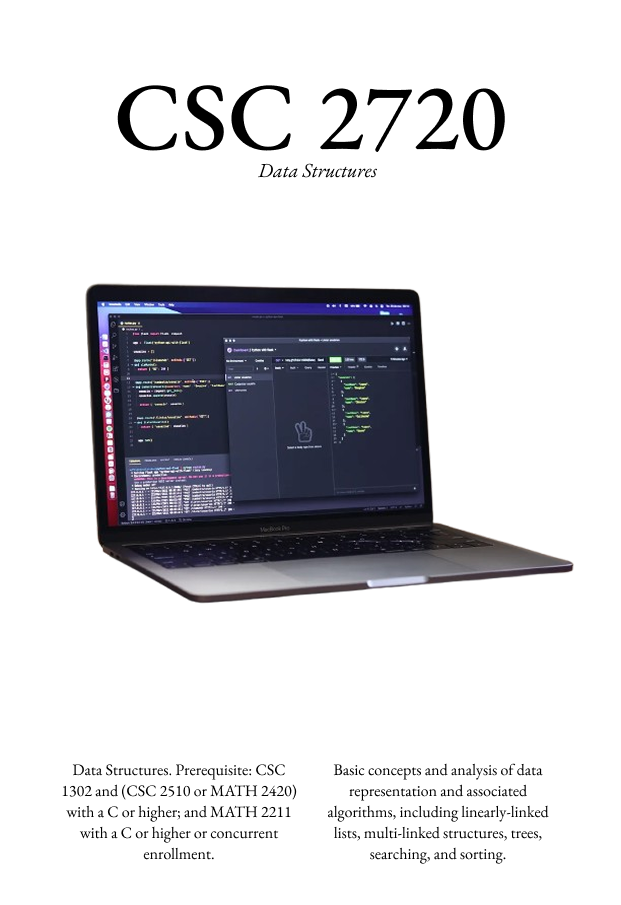
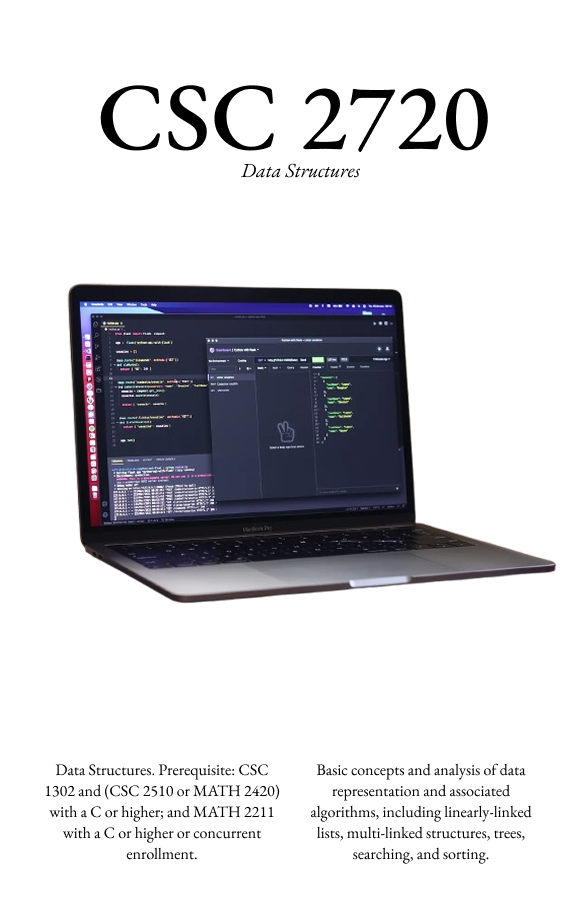
refactored entire homepage -  new section has a carousel sectiom - search and filter implementation at the bottom/old section

diff --git a/src/App.tsx b/src/App.tsx
@@ -1,8 +1,11 @@
-import { Box, Container, Heading, SimpleGrid } from '@chakra-ui/react'
-import { useEffect, useState } from 'react'
-import CourseCard from './components/Coursecard'
+import { Box, Container, Heading, SimpleGrid, Image, Input, VStack, Text, Flex, useBreakpointValue } from '@chakra-ui/react'
+import { useEffect, useState, useRef, useMemo } from 'react'
+import { motion, AnimatePresence } from 'framer-motion'
 import { courses } from './data/courses'
 import CSC1301 from './pages/CSC1301'
+import type { Course } from './types'
+
+const MotionBox = motion(Box as any)
 
 function App() {
   const [hashRoute, setHashRoute] = useState(() => window.location.hash)
@@ -20,21 +23,281 @@ function App() {
     return <CSC1301 onBack={() => (window.location.hash = '')} />
   }
 
+  return <PortfolioHome onNavigation={(route) => {
+    window.location.hash = route
+  }}/>
+}
+
+function PortfolioHome({ onNavigation }: { onNavigation: (route: string) => void }) {
+  const [currentIndex, setCurrentIndex] = useState(0)
+  
+  // Search and Filter State
+  const [searchQuery, setSearchQuery] = useState('')
+  const [isSearchFocused, setIsSearchFocused] = useState(false)
+  const [selectedLanguage, setSelectedLanguage] = useState<string | null>(null)
+  
+  const searchContainerRef = useRef<HTMLDivElement>(null)
+
+  useEffect(() => {
+    function handleClickOutside(event: MouseEvent) {
+      if (searchContainerRef.current && !searchContainerRef.current.contains(event.target as Node)) {
+        setIsSearchFocused(false)
+      }
+    }
+    document.addEventListener("mousedown", handleClickOutside)
+    return () => document.removeEventListener("mousedown", handleClickOutside)
+  }, [])
+
+  const languages = useMemo(() => {
+    const langs = new Set<string>()
+    courses.forEach(c => c.language && langs.add(c.language))
+    return Array.from(langs)
+  }, [])
+
+  const filteredCourses = useMemo(() => {
+    return courses.filter(c => {
+      const matchSearch = c.name.toLowerCase().includes(searchQuery.toLowerCase()) || c.code.toLowerCase().includes(searchQuery.toLowerCase())
+      const matchLang = selectedLanguage ? c.language === selectedLanguage : true
+      return matchSearch && matchLang
+    })
+  }, [searchQuery, selectedLanguage])
+
+  // Responsive Carousel Logic
+  // 5 items for 2xl, 3 items for others
+  const is2xl = useBreakpointValue({ base: false, '2xl': true })
+  
+  const handleNext = () => setCurrentIndex((prev) => (prev + 1) % courses.length)
+  const handlePrev = () => setCurrentIndex((prev) => (prev - 1 + courses.length) % courses.length)
+
+  const handleLinkCourse = (course: Course) => {
+    if (course.link) {
+      const isExternal = /^https?:\/\//.test(course.link)
+      if (isExternal) {
+        window.open(course.link, '_blank')
+      } else {
+        onNavigation(course.link)
+      }
+    }
+  }
+
+  // Calculate carousel positions
+  const getCarouselItems = () => {
+    const total = courses.length
+    
+    // We want to show a window of items. For 2xl it's 5 (-2, -1, 0, 1, 2)
+    // For smaller screens, it's 3 (-1, 0, 1)
+    const windowOffset = is2xl ? 2 : 1
+    
+    return courses.map((course, index) => {
+        let diff = index - currentIndex
+        // Handle wrapping for infinite carousel effect
+        if (diff > total / 2) diff -= total
+        if (diff < -total / 2) diff += total
+        
+        const isVisible = Math.abs(diff) <= windowOffset
+        
+        let zIndex = 10 - Math.abs(diff)
+        // Scaled down progressively so they fit cleanly side-by-side on screen
+        let scale = diff === 0 ? 1 : 0.9 - Math.abs(diff) * 0.1
+        let opacity = diff === 0 ? 1 : 0.6
+        
+        // Spread items apart using relative sizing instead of absolute fixed pixels
+        let translateX = `${diff * 110}%`
+
+        if (!isVisible) {
+            opacity = 0
+            // Keep off-screen items slightly further out functionally
+            translateX = diff > 0 ? `${(windowOffset + 1) * 110}%` : `-${(windowOffset + 1) * 110}%`
+        }
+
+        return {
+            course,
+            offset: diff,
+            isVisible,
+            styles: {
+                zIndex,
+                scale,
+                opacity,
+                translateX
+            }
+        }
+    })
+  }
+
   return (
-    <Box minH="100vh" minW={"90w"} bg="#fff" py={10}>
-      <Container color={'black'} maxW="container.xl">
-        <Heading size="5xl" mb={8} fontWeight={'light'} textAlign="center">
+    <Box minH="100vh" minW="100%" bg="#fafafa" py={10} overflowX="hidden">
+      <Container maxW="container.2xl">
+        <Heading size="5xl" mb={4} fontWeight="light" textAlign="center">
           GSU Computer Science Portfolio
         </Heading>
-        <Heading size="2xl" mb={6} fontWeight={'light'} textAlign="center">
+        <Heading size="2xl" mb={12} fontWeight="light" textAlign="center" color="gray.600">
           Steven Acosta-Pliego
         </Heading>
         
-        <SimpleGrid columns={{ base: 1, md: 2, lg: 3 }} gap={6} mt={10}>
-          {courses.map((course) => (
-            <CourseCard key={course.id} course={course} />
-          ))}
-        </SimpleGrid>
+        {/* CAROUSEL SECTION */}
+        <Box pos="relative" h={{ base: "300px", md: "400px", lg: "500px" }} mb={{ base: 24, lg: 32 }} mt={20} display="flex" alignItems="center" justifyContent="center">
+            {getCarouselItems().map(({ course, offset, isVisible, styles }) => (
+                <MotionBox
+                    key={course.id} 
+                    pos="absolute"
+                    initial={false}
+                    animate={{ 
+                        opacity: styles.opacity, 
+                        x: styles.translateX, 
+                        scale: styles.scale 
+                    }}
+                    transition={{ type: "spring", stiffness: 350, damping: 35 }}
+                    style={{ zIndex: styles.zIndex }}
+                    cursor={offset === 0 ? 'pointer' : (isVisible ? 'pointer' : 'default')}
+                    pointerEvents={isVisible ? "auto" : "none"}
+                    onClick={() => {
+                        if (!isVisible) return
+                        if (offset === 0) handleLinkCourse(course)
+                        else if (offset > 0) handleNext()
+                        else handlePrev()
+                    }}
+                >
+                    <Image 
+                        src={course.image} 
+                        alt={course.code} 
+                        w={{ base: "250px", md: "350px", lg: "400px" }}
+                        h="auto"
+                        shadow="2xl"
+                        borderRadius="xl"
+                        filter={offset === 0 ? "none" : "grayscale(80%)"}
+                        transition="filter 0.3s"
+                        _hover={{ filter: offset === 0 ? "none" : "grayscale(50%)" }}
+                    />
+                </MotionBox>
+            ))}
+        </Box>
+
+        {/* SEARCH AND GRID SECTION */}
+        <Container maxW="container.xl" ref={searchContainerRef} pos="relative" zIndex={20} mt={16}>
+            <VStack mb={10} w="full" maxW="lg" mx="auto" position="relative">
+              <Box pos="relative" w="full">
+                  {selectedLanguage && (
+                      <Box pos="absolute" left={2} top="50%" transform="translateY(-50%)" zIndex={2}>
+                          <Box 
+                              bg="blue.500" 
+                              color="white" 
+                              px={3} 
+                              py={0.5} 
+                              borderRadius="full" 
+                              fontSize="sm" 
+                              fontWeight="medium"
+                              textTransform="capitalize"
+                              display="flex"
+                              alignItems="center"
+                          >
+                              {selectedLanguage}
+                              <Box 
+                                  as="button" 
+                                  onClick={(e) => { e.stopPropagation(); setSelectedLanguage(null); }} 
+                                  ml={2} 
+                                  fontSize="md"
+                                  lineHeight={1}
+                                  opacity={0.8}
+                                  _hover={{ opacity: 1 }}
+                              >
+                                  ×
+                              </Box>
+                          </Box>
+                      </Box>
+                  )}
+                  <Input
+                      placeholder={selectedLanguage ? "Search more..." : "Search courses..."}
+                      value={searchQuery}
+                      onChange={(e) => setSearchQuery(e.target.value)}
+                      onFocus={() => setIsSearchFocused(true)}
+                      size="lg"
+                      bg="white"
+                      borderRadius="full"
+                      shadow="sm"
+                      pl={selectedLanguage ? { base: "110px", md: "120px" } : 6}
+                  />
+              </Box>
+              
+              <AnimatePresence>
+                  {isSearchFocused && (
+                      <MotionBox
+                          initial={{ opacity: 0, y: -10 }}
+                          animate={{ opacity: 1, y: 0 }}
+                          exit={{ opacity: 0, y: -10 }}
+                          pos="absolute"
+                          top="100%"
+                          left={0}
+                          right={0}
+                          mt={2}
+                          bg="white"
+                          p={4}
+                          borderRadius="xl"
+                          shadow="xl"
+                          border="1px"
+                          borderColor="gray.100"
+                      >
+                          <Text fontWeight="medium" mb={3} fontSize="sm" color="gray.500">
+                              Filter by Programming Language
+                          </Text>
+                          <Flex flexWrap="wrap" gap={2}>
+                              <Box
+                                  as="button"
+                                  px={3} py={1}
+                                  borderRadius="full"
+                                  fontSize="sm"
+                                  bg={selectedLanguage === null ? "blue.500" : "gray.100"}
+                                  color={selectedLanguage === null ? "white" : "gray.700"}
+                                  onClick={() => setSelectedLanguage(null)}
+                              >
+                                  All
+                              </Box>
+                              {languages.map(lang => (
+                                  <Box
+                                      key={lang}
+                                      as="button"
+                                      px={3} py={1}
+                                      borderRadius="full"
+                                      fontSize="sm"
+                                      textTransform="capitalize"
+                                      bg={selectedLanguage === lang ? "blue.500" : "gray.100"}
+                                      color={selectedLanguage === lang ? "white" : "gray.700"}
+                                      onClick={() => setSelectedLanguage(lang)}
+                                  >
+                                      {lang}
+                                  </Box>
+                              ))}
+                          </Flex>
+                      </MotionBox>
+                  )}
+              </AnimatePresence>
+            </VStack>
+            
+            <SimpleGrid columns={{ base: 1, sm: 2, md: 3, lg: 4 }} gap={8}>
+              {filteredCourses.map((course) => (
+                  <Box 
+                      key={course.id} 
+                      as="button"
+                      onClick={() => handleLinkCourse(course)}
+                      textAlign="left"
+                      transition="transform 0.2s"
+                      _hover={{ transform: 'translateY(-4px)' }}
+                  >
+                      <Image 
+                          src={course.image} 
+                          alt={course.code} 
+                          w="full" 
+                          borderRadius="xl" 
+                          shadow="md" 
+                      />
+                  </Box>
+              ))}
+              {filteredCourses.length === 0 && (
+                  <Text color="gray.500" textAlign="center" gridColumn="1 / -1" py={10}>
+                      No courses found matching your criteria.
+                  </Text>
+              )}
+            </SimpleGrid>
+        </Container>
       </Container>
     </Box>
   )